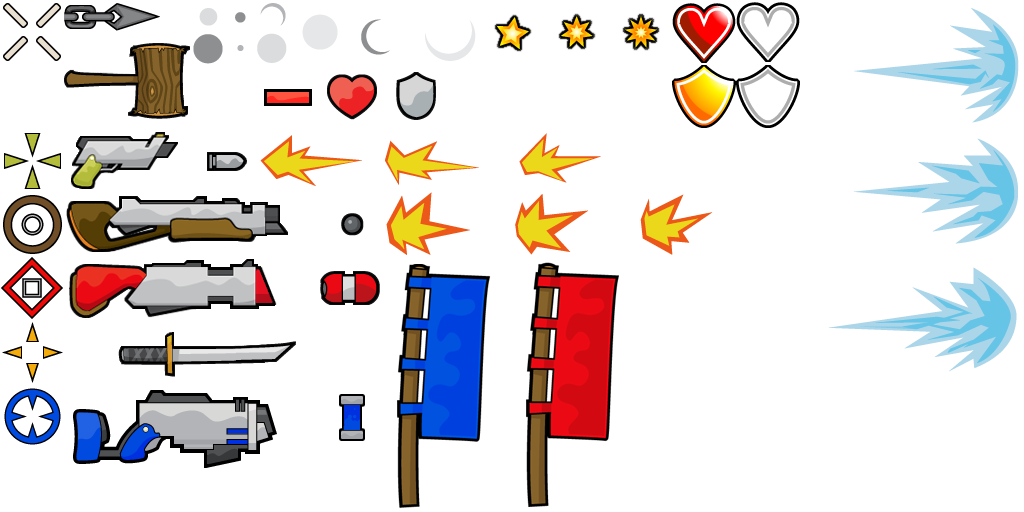
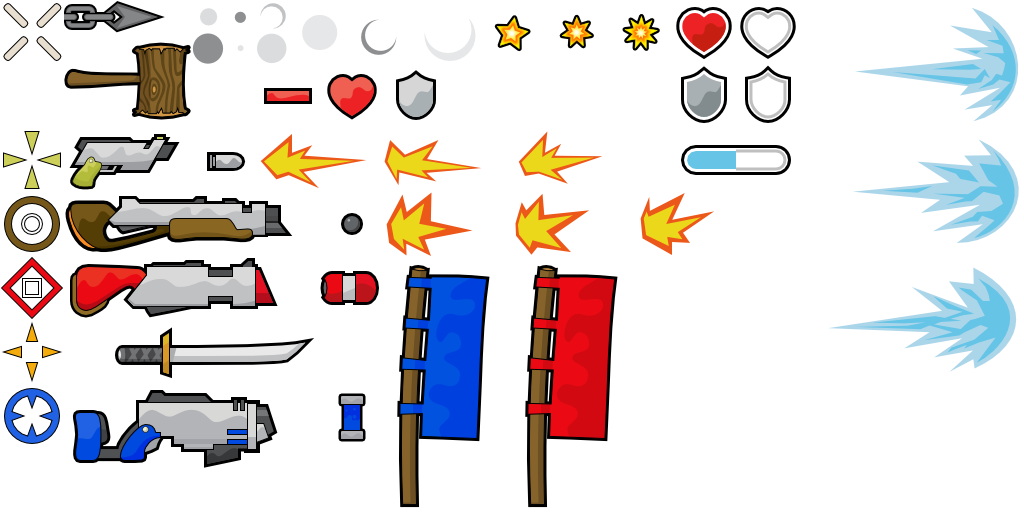
Use 0.7 gameskin by @Zatline
https://github.com/teeworlds/teeworlds/commit/15d0c2e5004fc5e3d11815ded0e0f74f03ded374
https://github.com/teeworlds/teeworlds/commit/d4ca71c6e11cba2ee12ad0b8aee63f05a71fed46
https://github.com/teeworlds/teeworlds/commit/3a02c824ba68a5f016bfd26c37803b3324222f60

diff --git a/src/game/client/components/hud.cpp b/src/game/client/components/hud.cpp
@@ -260,7 +260,7 @@ void CHud::RenderScoreHud()
 					{
 						// draw flag
 						Graphics()->TextureSet(t == 0 ? GameClient()->m_GameSkin.m_SpriteFlagRed : GameClient()->m_GameSkin.m_SpriteFlagBlue);
-						int QuadOffset = NUM_WEAPONS * 10 + 40 + NUM_WEAPONS + t;
+						int QuadOffset = NUM_WEAPONS * 10 * 2 + 40 * 2 + NUM_WEAPONS + t;
 						Graphics()->SetColor(1.f, 1.f, 1.f, 1.f);
 						Graphics()->RenderQuadContainerAsSprite(m_HudQuadContainerIndex, QuadOffset, Whole - ScoreWidthMax - ImageSize, StartY + 1.0f + t * 20);
 					}
@@ -667,7 +667,7 @@ void CHud::RenderCursor()
 	Graphics()->TextureSet(GameClient()->m_GameSkin.m_SpriteWeaponCursors[CurWeapon]);
 
 	// render cursor
-	int QuadOffset = NUM_WEAPONS * 10 + 40 + (CurWeapon);
+	int QuadOffset = NUM_WEAPONS * 10 * 2 + 40 * 2 + (CurWeapon);
 	Graphics()->SetColor(1.f, 1.f, 1.f, 1.f);
 	Graphics()->RenderQuadContainerAsSprite(m_HudQuadContainerIndex, QuadOffset, m_pClient->m_pControls->m_TargetPos[g_Config.m_ClDummy].x, m_pClient->m_pControls->m_TargetPos[g_Config.m_ClDummy].y);
 }
@@ -683,8 +683,26 @@ void CHud::PrepareHealthAmoQuads()
 	for(int i = 0; i < NUM_WEAPONS; ++i)
 	{
 		Graphics()->QuadsSetSubset(0, 0, 1, 1);
+
+		// 0.6
 		for(int n = 0; n < 10; n++)
 			Array[n] = IGraphics::CQuadItem(x + n * 12, y + 24, 10, 10);
+
+		Graphics()->QuadContainerAddQuads(m_HudQuadContainerIndex, Array, 10);
+
+		// 0.7
+		if(i == WEAPON_GRENADE)
+		{
+			// special case for 0.7 grenade
+			for(int n = 0; n < 10; n++)
+				Array[n] = IGraphics::CQuadItem(1 + x + n * 12, y + 24, 10, 10);
+		}
+		else
+		{
+			for(int n = 0; n < 10; n++)
+				Array[n] = IGraphics::CQuadItem(x + n * 12, y + 24, 12, 12);
+		}
+
 		Graphics()->QuadContainerAddQuads(m_HudQuadContainerIndex, Array, 10);
 	}
 
@@ -694,9 +712,19 @@ void CHud::PrepareHealthAmoQuads()
 		Array[i] = IGraphics::CQuadItem(x + i * 12, y, 10, 10);
 	Graphics()->QuadContainerAddQuads(m_HudQuadContainerIndex, Array, 10);
 
+	// 0.7
+	for(int i = 0; i < 10; ++i)
+		Array[i] = IGraphics::CQuadItem(x + i * 12, y, 12, 12);
+	Graphics()->QuadContainerAddQuads(m_HudQuadContainerIndex, Array, 10);
+
 	Graphics()->QuadsSetSubset(0, 0, 1, 1);
 	for(int i = 0; i < 10; ++i)
 		Array[i] = IGraphics::CQuadItem(x + i * 12, y, 10, 10);
+	Graphics()->QuadContainerAddQuads(m_HudQuadContainerIndex, Array, 10);
+
+	// 0.7
+	for(int i = 0; i < 10; ++i)
+		Array[i] = IGraphics::CQuadItem(x + i * 12, y, 12, 12);
 	Graphics()->QuadContainerAddQuads(m_HudQuadContainerIndex, Array, 10);
 
 	// armor meter
@@ -705,9 +733,19 @@ void CHud::PrepareHealthAmoQuads()
 		Array[i] = IGraphics::CQuadItem(x + i * 12, y + 12, 10, 10);
 	Graphics()->QuadContainerAddQuads(m_HudQuadContainerIndex, Array, 10);
 
+	// 0.7
+	for(int i = 0; i < 10; ++i)
+		Array[i] = IGraphics::CQuadItem(x + i * 12, y + 12, 12, 12);
+	Graphics()->QuadContainerAddQuads(m_HudQuadContainerIndex, Array, 10);
+
 	Graphics()->QuadsSetSubset(0, 0, 1, 1);
 	for(int i = 0; i < 10; ++i)
 		Array[i] = IGraphics::CQuadItem(x + i * 12, y + 12, 10, 10);
+	Graphics()->QuadContainerAddQuads(m_HudQuadContainerIndex, Array, 10);
+
+	// 0.7
+	for(int i = 0; i < 10; ++i)
+		Array[i] = IGraphics::CQuadItem(x + i * 12, y + 12, 12, 12);
 	Graphics()->QuadContainerAddQuads(m_HudQuadContainerIndex, Array, 10);
 }
 
@@ -718,8 +756,11 @@ void CHud::RenderHealthAndAmmo(const CNetObj_Character *pCharacter)
 	// render ammo count
 	// render gui stuff
 
+	bool IsSixupGameSkin = GameClient()->m_GameSkin.IsSixup();
+	int QuadOffsetSixup = (IsSixupGameSkin ? 10 : 0);
+
 	int CurWeapon = pCharacter->m_Weapon % NUM_WEAPONS;
-	int QuadOffset = CurWeapon * 10;
+	int QuadOffset = (CurWeapon * 2) * 10 + QuadOffsetSixup;
 
 	if(GameClient()->m_GameSkin.m_SpriteWeaponProjectiles[CurWeapon] != -1)
 	{
@@ -730,23 +771,23 @@ void CHud::RenderHealthAndAmmo(const CNetObj_Character *pCharacter)
 
 	Graphics()->TextureSet(GameClient()->m_GameSkin.m_SpriteHealthFull);
 
-	QuadOffset = NUM_WEAPONS * 10;
+	QuadOffset = NUM_WEAPONS * 10 * 2 + QuadOffsetSixup;
 	Graphics()->RenderQuadContainer(m_HudQuadContainerIndex, QuadOffset, minimum(pCharacter->m_Health, 10));
 
 	Graphics()->TextureSet(GameClient()->m_GameSkin.m_SpriteHealthEmpty);
 
-	QuadOffset += 10 + minimum(pCharacter->m_Health, 10);
+	QuadOffset += 10 * 2 + minimum(pCharacter->m_Health, 10);
 	if(minimum(pCharacter->m_Health, 10) < 10)
 		Graphics()->RenderQuadContainer(m_HudQuadContainerIndex, QuadOffset, 10 - minimum(pCharacter->m_Health, 10));
 
 	Graphics()->TextureSet(GameClient()->m_GameSkin.m_SpriteArmorFull);
 
-	QuadOffset = NUM_WEAPONS * 10 + 20;
+	QuadOffset = NUM_WEAPONS * 10 * 2 + 20 * 2 + QuadOffsetSixup;
 	Graphics()->RenderQuadContainer(m_HudQuadContainerIndex, QuadOffset, minimum(pCharacter->m_Armor, 10));
 
 	Graphics()->TextureSet(GameClient()->m_GameSkin.m_SpriteArmorEmpty);
 
-	QuadOffset += 10 + minimum(pCharacter->m_Armor, 10);
+	QuadOffset += 10 * 2 + minimum(pCharacter->m_Armor, 10);
 	if(minimum(pCharacter->m_Armor, 10) < 10)
 		Graphics()->RenderQuadContainer(m_HudQuadContainerIndex, QuadOffset, 10 - minimum(pCharacter->m_Armor, 10));
 }
